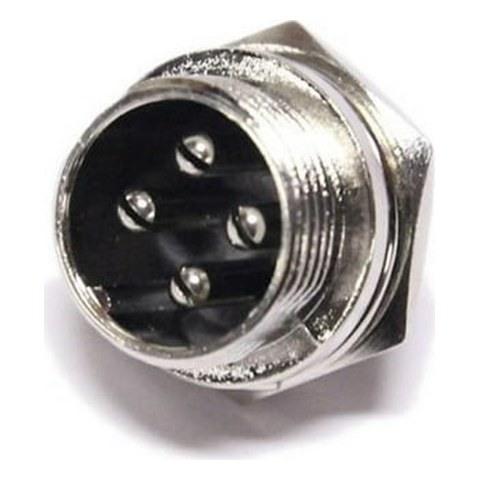
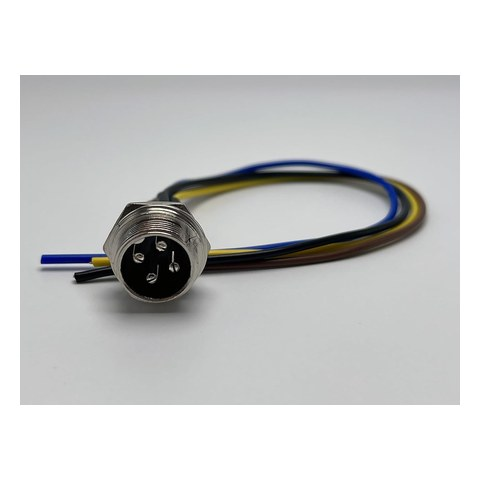
No soldering: pre-wired GX16 microphone socket and lever connectors
The microphone socket A16 is now a GX16 4-pin socket sold with its four
wires attached. Its sound wires go under the screws of A18, and its
push-to-talk wires go into two lever connectors (A22, rated down to
28 AWG) that join them to jumper wires for the Pi. The parts list has
22 parts and says none of them needs soldering. The wiring guide and
the drawings follow.

diff --git a/tests/test_repo.py b/tests/test_repo.py
@@ -114,10 +114,10 @@ def picture_size(path):
 class Guides(unittest.TestCase):
     """The guides and what they show: the parts list, the pictures set side by side, the case plans."""
 
-    def test_the_parts_list_has_21_parts_each_with_its_label_quantity_and_sheet(self):
+    def test_the_parts_list_has_22_parts_each_with_its_label_quantity_and_sheet(self):
         text = read("docs", "PARTS-BOM.md")
         rows = re.findall(r"^\| \*\*(A\d+)\*\* \| <img [^|]*\| \[[^]]+\]\(#(a\d+)\) \| ([^|]+) \|", text, re.M)
-        self.assertEqual([r[0] for r in rows], ["A%d" % n for n in range(1, 22)])
+        self.assertEqual([r[0] for r in rows], ["A%d" % n for n in range(1, 23)])
         for label, anchor, qty in rows:
             self.assertEqual(anchor, label.lower())
             self.assertRegex(qty.strip(), r"^\*\*×\d", "%s has no quantity such as ×2" % label)
@@ -130,7 +130,7 @@ class Guides(unittest.TestCase):
             text = read(*name)
             self.assertNotRegex(text, r"\(parts? \d", "%s still uses the old part numbers" % name[-1])
             for n in re.findall(r"\bA(\d+)\)", text):
-                self.assertTrue(1 <= int(n) <= 21, "%s names part A%s" % (name[-1], n))
+                self.assertTrue(1 <= int(n) <= 22, "%s names part A%s" % (name[-1], n))
 
     def test_pictures_set_side_by_side_have_one_shape(self):
         seen = 0

diff --git a/docs/PARTS-BOM.md b/docs/PARTS-BOM.md
@@ -1,11 +1,11 @@
 # Parts
 
-The radio has 21 parts, labelled A1 to A21. The drawings in [WIRING.md](WIRING.md) and in
+The radio has 22 parts, labelled A1 to A22. None of them needs soldering. The drawings in [WIRING.md](WIRING.md) and in
 [the case plans](../print/README.md) call each part by its label. The last column says where the part stands in
 version 1.0: **wired** means it is part of the bench build, and **planned** means it is in the design and not connected
 yet.
 
-The references are the parts I ordered, except A12, A16, A19, A20 and A21, which I picked and have not ordered yet. Any
+The references are the parts I ordered, except A12, A16, A19, A20, A21 and A22, which I picked and have not ordered yet. Any
 equivalent part works, except where a note says otherwise. The sizes and the electrical values come from each maker's
 or seller's page, read between 10 and 16 November 2026. I have measured none of them myself. The openings of the case
 are another matter: they are measured in its print files.
@@ -29,12 +29,13 @@ are another matter: they are measured in its print files.
 | **A13** | <img src="images/parts/a13-speaker.jpg" width="96" alt="MonkMakes Amplified Speaker 2"> | [MonkMakes Amplified Speaker 2](#a13) | **×1** | The speaker, with its own amplifier | Wired |
 | **A14** | <img src="images/parts/a14-audio-cable.jpg" width="96" alt="3.5 mm audio cable, 30 cm, one end at a right angle"> | [3.5 mm audio cable, 30 cm, one end at a right angle](#a14) | **×1** | Takes the sound from the Pi's jack to the speaker | Wired |
 | **A15** | <img src="images/parts/a15-cb-microphone.jpg" width="96" alt="Uniden BC645 CB microphone"> | [Uniden BC645 CB microphone](#a15) | **×1** | The hand microphone and its push-to-talk button | Planned |
-| **A16** | <img src="images/parts/a16-microphone-socket.jpg" width="96" alt="4-pin microphone socket for the face"> | [4-pin microphone socket for the face](#a16) | **×1** | The socket that the microphone plugs into | Planned |
+| **A16** | <img src="images/parts/a16-microphone-socket.jpg" width="96" alt="GX16 4-pin socket with its wires attached"> | [GX16 4-pin socket with its wires attached](#a16) | **×1** | The socket that the microphone plugs into | Planned |
 | **A17** | <img src="images/parts/a17-usb-sound-adapter.jpg" width="96" alt="USB sound adapter with a microphone input"> | [USB sound adapter with a microphone input](#a17) | **×1** | Gives the Pi the microphone input it lacks | Planned |
 | **A18** | <img src="images/parts/a18-trrs-plug.jpg" width="96" alt="3.5 mm TRRS plug with screw terminals"> | [3.5 mm TRRS plug with screw terminals](#a18) | **×1** | Joins the microphone's wires to the sound adapter | Planned |
 | **A19** | <img src="images/parts/a19-jumper-wires.jpg" width="96" alt="Female-to-female jumper wires, 30 cm"> | [Female-to-female jumper wires, 30 cm](#a19) | **×1 strip of 20** | Join the Pi's pins to the speaker, the needles and the push-to-talk button | Wired |
 | **A20** | <img src="images/parts/a20-usb-c-panel-socket.jpg" width="96" alt="USB-C panel socket on a 30 cm cable"> | [USB-C panel socket on a 30 cm cable](#a20) | **×1** | The power socket on the back of the case | Planned |
 | **A21** | <img src="images/parts/a21-switch-cable.jpg" width="96" alt="USB-C cable with an on and off switch"> | [USB-C cable with an on and off switch](#a21) | **×1** | The master switch | Planned |
+| **A22** | <img src="images/parts/a22-lever-connectors.jpg" width="96" alt="Lever connectors for thin wire, 3 ways"> | [Lever connectors for thin wire, 3 ways](#a22) | **×2** | Join the microphone socket's wires to jumper wires, with no soldering | Planned |
 
 Five notes on these parts.
 
@@ -144,11 +145,11 @@ One sheet for each part, in the order of the list.
 |---|---|
 | <img src="images/parts/a15-cb-microphone.jpg" width="200" alt="Uniden BC645 CB microphone"> | The hand microphone and its push-to-talk button. It plugs into the socket A16 on the face.<br><br>**Quantity:** ×1<br>**In version 1.0:** planned<br>**Reference:** Amazon B008CLIB5K<br>**Connects:** Its plug goes into the socket A16, direct.<br>**Plug:** 4 pins, female, wired the Cobra and Uniden way<br>**Cord:** Coiled, 2.4 m<br>**Button:** Push to talk |
 
-### <a id="a16"></a>A16. 4-pin microphone socket for the face
+### <a id="a16"></a>A16. GX16 4-pin socket with its wires attached
 
 | | |
 |---|---|
-| <img src="images/parts/a16-microphone-socket.jpg" width="200" alt="4-pin microphone socket for the face"> | The socket on the face that the microphone A15 plugs into. Cobra and Uniden CB radios have the same socket. Behind the face, its pins 1 and 2 go to the plug A18, and its pins 1 and 3 go to the Pi's header for the push-to-talk button.<br><br>**Quantity:** ×1<br>**In version 1.0:** planned<br>**Reference:** Workman C-4P. I have not ordered it yet.<br>**Connects:** Pins 1 and 2: to the screw terminals of A18, with A19 wires soldered at the socket. Pins 1 and 3: to pins 9 and 11 of the Pi, with A19 wires soldered at the socket.<br>**Pins:** 4, male<br>**Body:** Metal, with a nut and a washer<br>**Hole:** The face has a 16.2 mm hole for it. Workman does not give the hole size: hold the socket in the hole before you print the face.<br>**Wires:** Its pins take soldered wires. It is the one part of the radio that needs a soldering iron.<br>**Seller's page:** https://cbradiosupply.com/products/cb-radio-accessories-workman-c-4p-replacement-4-pin-cb-radio-microphone-panel-jack-mount |
+| <img src="images/parts/a16-microphone-socket.jpg" width="200" alt="GX16 4-pin socket with its wires attached"> | The socket on the face that the microphone A15 plugs into. It comes with four wires already attached at its back, so nothing is soldered. The wires go to the plug A18 and, through the lever connectors A22, to the Pi.<br><br>**Quantity:** ×1<br>**In version 1.0:** planned<br>**Reference:** GX16, 4 Pin Male-Open, on Amazon B0CWF1H262. I have not ordered it yet.<br>**Connects:** Its wire from pin 2 goes under a screw of A18, direct. Its wires from pins 1 and 3 each go into a lever connector A22, which joins them to A19 wires for pins 9 and 11 of the Pi. Pin 1 also goes on to A18 through a short wire. Its pin 4 wire is not used.<br>**Pins:** 4, male, 16 mm round body with a nut<br>**Wires:** 4 wires of 20 AWG, 20 cm, attached and sealed at the back<br>**Fit:** Sellers list the GX16 4-pin as the CB microphone connector. I have not tried it with the BC645 yet: plug the microphone in before you mount the socket.<br>**Colours:** The listing does not say which colour goes to which pin. Find out with a multimeter set to continuity, one probe on a pin and the other on each wire.<br>**Hole:** 16 mm. The face has a 16.2 mm hole for it. |
 
 ### <a id="a17"></a>A17. USB sound adapter with a microphone input
 
@@ -160,13 +161,13 @@ One sheet for each part, in the order of the list.
 
 | | |
 |---|---|
-| <img src="images/parts/a18-trrs-plug.jpg" width="200" alt="3.5 mm TRRS plug with screw terminals"> | A 3.5 mm plug whose four contacts end in screw terminals. The microphone's two audio wires, from the socket A16, are screwed in here, and the plug goes into the jack of the sound adapter A17. No soldering at this end.<br><br>**Quantity:** ×1<br>**In version 1.0:** planned<br>**Reference:** Amazon B08QFHHJ3Z. It comes in a pack of 2: **the radio uses 1**.<br>**Connects:** Plugs into the jack of A17, direct. The wires from A16 go into its screw terminals.<br>**Plug:** 3.5 mm male, 4 poles<br>**Terminals:** 4 screw terminals<br>**Length:** 32 cm |
+| <img src="images/parts/a18-trrs-plug.jpg" width="200" alt="3.5 mm TRRS plug with screw terminals"> | A 3.5 mm plug whose four contacts end in screw terminals. The microphone's two audio wires, from the socket A16, are screwed in here, and the plug goes into the jack of the sound adapter A17. No soldering at this end.<br><br>**Quantity:** ×1<br>**In version 1.0:** planned<br>**Reference:** Amazon B08QFHHJ3Z. It comes in a pack of 2: **the radio uses 1**.<br>**Connects:** Plugs into the jack of A17, direct. The pin 2 wire of A16 and a short wire from the pin 1 lever connector go under its screws.<br>**Plug:** 3.5 mm male, 4 poles<br>**Terminals:** 4 screw terminals<br>**Length:** 32 cm |
 
 ### <a id="a19"></a>A19. Female-to-female jumper wires, 30 cm
 
 | | |
 |---|---|
-| <img src="images/parts/a19-jumper-wires.jpg" width="200" alt="Female-to-female jumper wires, 30 cm"> | Join the Pi's header to the speaker's pins, to the needles and to the push-to-talk wires. A socket at each end slides onto a pin, so nothing is clipped.<br><br>**Quantity:** ×1 strip of 20<br>**In version 1.0:** wired<br>**Reference:** Adafruit 1949. I have not ordered it yet.<br>**Connects:** 12 of the 20: two for the speaker, three for each needle, two for the push-to-talk button, two from the microphone socket to A18.<br>**Ends:** Female at both ends, spaced 2.54 mm<br>**Length:** 30 cm<br>**Wire:** 28 AWG, in a ribbon of 20 that peels apart<br>**Maker's page:** https://www.adafruit.com/product/1949 |
+| <img src="images/parts/a19-jumper-wires.jpg" width="200" alt="Female-to-female jumper wires, 30 cm"> | Join the Pi's header to the speaker's pins, to the needles and to the push-to-talk wires. A socket at each end slides onto a pin, so nothing is clipped.<br><br>**Quantity:** ×1 strip of 20<br>**In version 1.0:** wired<br>**Reference:** Adafruit 1949. I have not ordered it yet.<br>**Connects:** 11 of the 20: two for the speaker, three for each needle, two for the push-to-talk button, and one cut short from the pin 1 lever connector to A18.<br>**Ends:** Female at both ends, spaced 2.54 mm<br>**Length:** 30 cm<br>**Wire:** 28 AWG, in a ribbon of 20 that peels apart<br>**Maker's page:** https://www.adafruit.com/product/1949 |
 
 ### <a id="a20"></a>A20. USB-C panel socket on a 30 cm cable
 
@@ -179,6 +180,12 @@ One sheet for each part, in the order of the list.
 | | |
 |---|---|
 | <img src="images/parts/a21-switch-cable.jpg" width="200" alt="USB-C cable with an on and off switch"> | The master switch: one press cuts the power of the whole radio.<br><br>**Quantity:** ×1<br>**In version 1.0:** planned<br>**Reference:** PiShop, Power Switch for Raspberry Pi 4, USB-C. I have not ordered it yet.<br>**Connects:** From the cable of A20 to the Pi's USB-C port, direct.<br>**Ends:** USB-C female, where the cable of A20 plugs in, to USB-C male, which goes into the Pi<br>**Length:** 27 cm<br>**Switch:** A button in the middle of the cable<br>**Use:** Made for the Raspberry Pi 4 with its usual supply. It passes power only, no data. It does not work with a Raspberry Pi 5.<br>**Seller's page:** https://www.pishop.ca/product/power-switch-for-raspberry-pi-4-usb-c/ |
+
+### <a id="a22"></a>A22. Lever connectors for thin wire, 3 ways
+
+| | |
+|---|---|
+| <img src="images/parts/a22-lever-connectors.jpg" width="200" alt="Lever connectors for thin wire, 3 ways"> | Each lever opens a slot: push a stripped wire in and close the lever. Two of them join the wires of the socket A16 to A19 jumper wires, whose other end slides onto a pin of the Pi.<br><br>**Quantity:** ×2<br>**In version 1.0:** planned<br>**Reference:** XHF2018 3-way lever connectors, Amazon B07H76HDBL, a pack of 50: **the radio uses 2**. I have not ordered them yet.<br>**Connects:** One joins the pin 3 wire of A16 to an A19 wire for Pi pin 11. The other joins the pin 1 wire to an A19 wire for Pi pin 9 and to a short wire for A18.<br>**Wire:** 0.08 to 2.5 mm², which is 28 to 12 AWG. Wago 221 connectors start at 24 AWG and do not hold the thin A19 wires.<br>**Ways:** 3 slots, joined inside |
 
 ## Where I bought them, in Canada
 
@@ -203,12 +210,13 @@ world.
 | **A13** | PiShop | <https://www.pishop.ca/product/amplified-speaker-2-for-raspberry-pi-arduino/> |
 | **A14** | Amazon.ca | <https://www.amazon.ca/dp/B08F2GRHXC> |
 | **A15** | Amazon.ca | <https://www.amazon.ca/dp/B008CLIB5K> |
-| **A16** | CB Radio Supply, in the United States, not bought yet | <https://cbradiosupply.com/products/cb-radio-accessories-workman-c-4p-replacement-4-pin-cb-radio-microphone-panel-jack-mount> |
+| **A16** | Amazon.com, not bought yet | <https://www.amazon.com/dp/B0CWF1H262> |
 | **A17** | Amazon.ca | <https://www.amazon.ca/dp/B07RS11M1T> |
 | **A18** | Amazon.ca | <https://www.amazon.ca/dp/B08QFHHJ3Z> |
 | **A19** | Digi-Key, not bought yet | <https://www.digikey.ca/en/products/result?keywords=adafruit%201949> |
 | **A20** | Digi-Key, not bought yet | <https://www.digikey.ca/en/products/result?keywords=adafruit%204218> |
 | **A21** | PiShop, not bought yet | <https://www.pishop.ca/product/power-switch-for-raspberry-pi-4-usb-c/> |
+| **A22** | Amazon.com, not bought yet | <https://www.amazon.com/dp/B07H76HDBL> |
 
 ## Where the pictures come from
 

diff --git a/docs/WIRING.md b/docs/WIRING.md
@@ -4,7 +4,7 @@ This guide has two parts. The first is the bench build of version 1.0: seven con
 second is the plan for the whole radio, with its meters, its microphone and its second screen. I have built and tested
 the first part. The second part is a design that I have not built yet.
 
-The drawings and the tables name each part by its label in [the parts list](PARTS-BOM.md), from A1 to A21.
+The drawings and the tables name each part by its label in [the parts list](PARTS-BOM.md), from A1 to A22.
 
 ## How the parts connect
 
@@ -134,15 +134,17 @@ wire holds on the meter's terminals. If they are screws, cut one end of the wire
 
 ### The microphone and its push-to-talk button
 
-The microphone (A15) keeps its 4-pin plug and plugs into a socket on the face (A16). Behind the face, its signal
-reaches the USB sound adapter (A17) through the TRRS plug with screw terminals (A18). The push-to-talk button closes a contact
-that the Pi reads on pin 11.
+The microphone (A15) keeps its 4-pin plug and plugs into a GX16 socket on the face (A16). The socket comes with its four
+wires attached at the back, so nothing is soldered. The sound wires go under the screws of the TRRS plug (A18), which
+goes into the USB sound adapter (A17). The push-to-talk wires go into two lever connectors (A22), which join them to
+jumper wires for pins 9 and 11 of the Pi.
 
 ![The microphone's four pins and where each one goes](images/wiring/microphone.png)
 
 The four pins follow the usual wiring of Cobra and Uniden microphones: pin 1 is the ground and the shield, pin 2 the
 microphone's signal, pin 3 transmit and pin 4 receive. I read that wiring on a reference page and have not checked it
-on my own microphone. Check yours with a multimeter before you solder the socket.
+on my own microphone. Before you connect anything, find which wire colour goes to which pin with a multimeter set to
+continuity, and plug the microphone into the socket once to check that it fits.
 
 ### The speaker
 
@@ -183,9 +185,9 @@ The two displays sit end to end behind the window, with their ribbons pointing o
 | The Pi, a USB-A port | A Qualia board, then the right display | A USB-A to USB-C cable (A7), then the ribbon |
 | The Pi, pins 16 and 14 | The left meter, + and - terminals | Jumper wires, with a potentiometer on the + terminal |
 | The Pi, pins 18 and 20 | The right meter, + and - terminals | Jumper wires, with a potentiometer on the + terminal |
-| The microphone socket, pin 1 | The TRRS plug's second ring, and the Pi's pin 9 | Wires soldered to the socket |
-| The microphone socket, pin 2 | The TRRS plug's sleeve | A wire soldered to the socket |
-| The microphone socket, pin 3 | The Pi's pin 11 | A wire soldered to the socket |
+| The microphone socket, pin 1 | The TRRS plug's second ring, and the Pi's pin 9 | Its wire into a lever connector (A22), then a short wire to A18 and an A19 wire to the Pi |
+| The microphone socket, pin 2 | The TRRS plug's sleeve | Its wire, under a screw of A18 |
+| The microphone socket, pin 3 | The Pi's pin 11 | Its wire into a lever connector (A22), then an A19 wire |
 | The Pi's 3.5 mm jack | The speaker | The audio cable (A14) |
 | The Pi, pins 2 and 6 | The speaker, 5 V and ground | Jumper wires (A19) |
 | The Pi, pins 4 and 34 | The lamps of the two meters | The USB-A socket on wires (A12), then the 5 V to 12 V cable (A11) |

diff --git a/CHANGELOG.md b/CHANGELOG.md
@@ -11,6 +11,8 @@ These changes are in the guides only. The programs are those of 1.0.0.
   switch cable that is the master switch (A21). The USB-C cable to a computer is no longer in the list.
 - The microphone socket for the face has a reference, the Workman C-4P (A16), and every part has a picture.
 - The wiring guide explains the power path, and the wiring drawings use the new labels.
+- Nothing needs soldering. The microphone socket A16 is now a GX16 socket sold with its wires attached, and two lever
+  connectors (A22) join its push-to-talk wires to jumper wires.
 - The parts list is now `docs/PARTS-BOM.md`. It ends with the Canadian stores where I bought each part, and the master
   switch A21 is now one sold in Canada.
 - The wiring drawings show a picture of every part, the Pi included. The speaker and the meters' lamps have a drawing

diff --git a/README.md b/README.md
@@ -127,7 +127,7 @@ lists the problems I ran into with their fixes.
 
 | Guide | What it holds |
 |---|---|
-| [Parts](docs/PARTS-BOM.md) | The 21 parts of the radio, A1 to A21, with a quantity, a picture and a sheet for each |
+| [Parts](docs/PARTS-BOM.md) | The 22 parts of the radio, A1 to A22, with a quantity, a picture and a sheet for each |
 | [Wiring](docs/WIRING.md) | The bench build connection by connection, the pins of the Pi, and the wiring plan of the whole radio |
 | [Setup](docs/SETUP.md) | The card, the first start and the installer, step by step |
 | [How the radio works](docs/HOW-IT-WORKS.md) | The two programs, the messages between them, and how to change the sounds, the channels and the colours |
